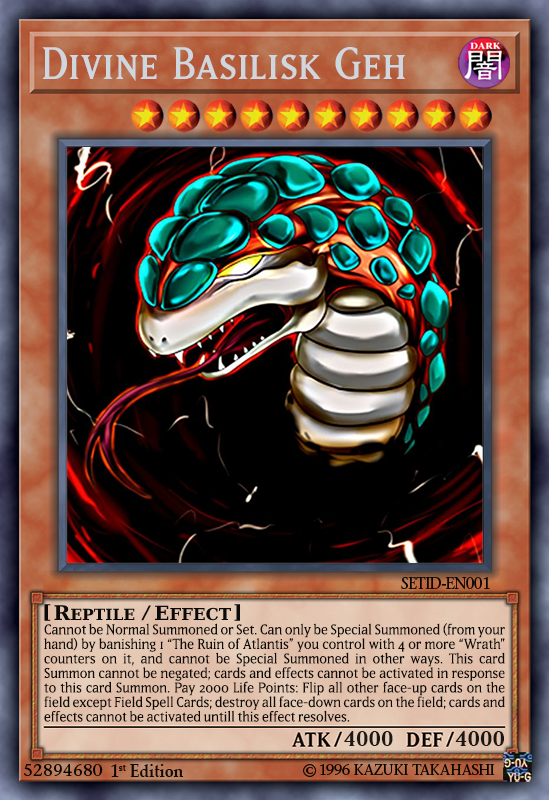
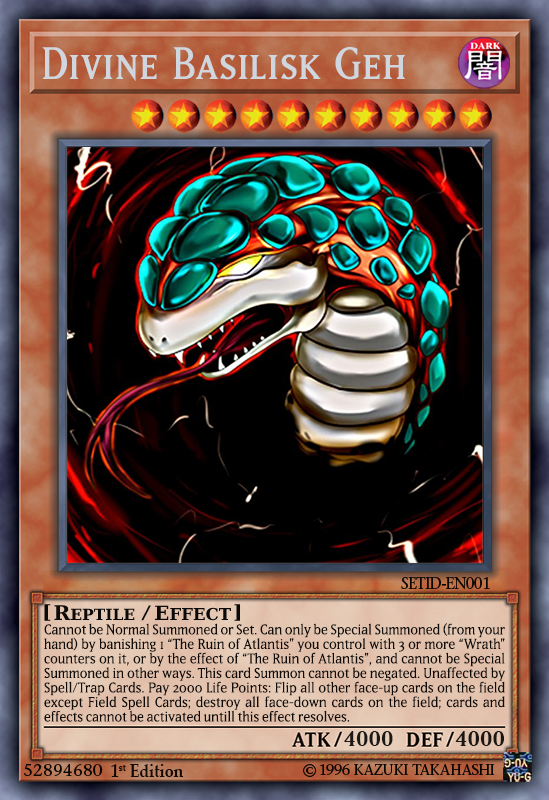
Update

Changed region(s): [[0.0619, 0.7812, 0.929, 0.9062]]

diff --git a/Scripts/cards_db.js b/Scripts/cards_db.js
@@ -417,7 +417,7 @@ var CARDS_DB =
             "ATK": 4000,
             "DEF": 4000,
             "Attribute": "DARK",
-            "Effect": "Cannot be Normal Summoned or Set. Can only be Special Summoned (from your hand) by banishing 1 \"The Ruin of Atlantis\" you control with 4 or more \"Wrath\" counters on it, and cannot be Special Summoned in other ways. This card Summon cannot be negated; cards and effects cannot be activated in response to this card Summon. Pay 2000 Life Points: Flip all other face-up cards on the field except Field Spell Cards; destroy all face-down cards on the field; cards and effects cannot be activated untill this effect resolves."
+            "Effect": "Cannot be Normal Summoned or Set. Can only be Special Summoned (from your hand) by banishing 1 \u201cThe Ruin of Atlantis\u201d you control with 3 or more \u201cWrath\u201d counters on it, or by the effect of \u201cThe Ruin of Atlantis\u201d, and cannot be Special Summoned in other ways. This card Summon cannot be negated. Unaffected by Spell/Trap Cards. Pay 2000 Life Points: Flip all other face-up cards on the field except Field Spell Cards; destroy all face-down cards on the field; cards and effects cannot be activated untill this effect resolves."
         }
     },
     {
@@ -513,7 +513,7 @@ var CARDS_DB =
             "ATK": 0,
             "DEF": 0,
             "Attribute": "",
-            "Effect": "Once per Duel, pay 1000 Life Points to activate. The activation of this card cannot be negated. Unaffected by your opponent's cards. Place one \"Wrath\" counter on this card each time any of the following condition is met:<ul><li>A Level 8 or higher monster on your field is destroyed.</li><li>You activate 1 \"Orichalcos\" Field Spell Card.</li><li>You took 2000 or more damage.</li><li>Once per Duel: You have 10 or more cards in your GY.</li></ul>"
+            "Effect": "Pay 1000 Life Points to activate. The activation of this card cannot be negated. Unaffected by other cards. Place one \u201cWrath\u201d counter on this card each time any of the following condition is met:<ul><li>A Level 7 or higher monster on your field is destroyed or banished.</li><li>You activated 1 \u201cOrichalcos\u201d Field Spell Card.</li><li>During the End Phase: You took 2000 or more total damage this turn.</li><li>Once per Duel: You have 10 or more cards in your GY.</li></ul>Remove 1 \u201cWrath\u201d counter from this card; destroy 1 card on the field. You can banish this card with 4 or more \u201cWrath\u201c counters on it: Special Summon 1 \u201cDivine Basilisk Geh\u201d from your Deck."
         }
     },
     {
